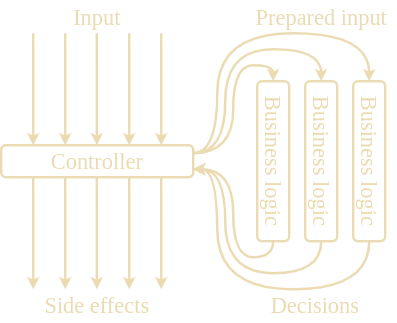
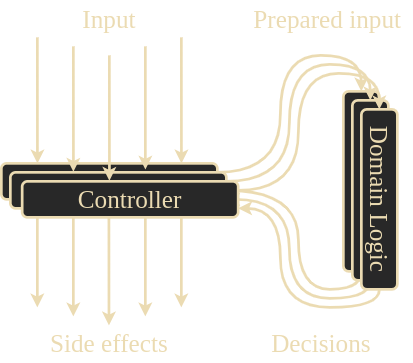
Add more unit testing conetent

Changed region(s): [[0.0, 0.031, 0.9975, 0.9907], [0.1209, 0.8978, 0.4232, 0.9907]]

diff --git a/content/unit-testing/making_tests_work.md b/content/unit-testing/making_tests_work.md
@@ -43,7 +43,8 @@ Always chose to maximize *resistance to refactoring*. Then, test size becomes a 
 ![Test triangle](/images/test_triangle.png)
 
 A diverse ratio of test sizes provides an ideal amount of both *protection against regressions* and 
-*fast feedback*. As a general rule of thumb, prefer a 7:2:1 ratio of small, medium, and large tests.
+*fast feedback*. For any non-trivial production system, test counts should form a pyramid where the
+test count shrinks as test size grows. 
 
 ![Test pyramid](/images/test_pyramid.png)
 
@@ -215,23 +216,25 @@ class MessageRenderer : public Renderer {
 
 ## Hexagonal Architecture
 
-Hexagonal Architecture, proposed by Alistair Cockburn, breaks applications into two parts:
+Hexagonal Architecture, proposed by Alistair Cockburn, breaks applications into two layers:
 
-- **Business logic** - Algorithms and domain models essential to the business.
-- **Controllers** - All other responsibilities of the application.
+- **Domain layer** - Algorithms and domain models essential to the business.
+- **Controller layer** - All other responsibilities of the application.
 
-Interaction between *business logic* and *controllers* follow three guidelines: 
+Interaction between the Domain layer and the Controller layer follow three guidelines: 
 
-1. Business logic is isolated from controllers.
-1. Business logic may not depend on controllers, but controllers may depend on business logic.
-1. Communication with external applications is handled by controllers, not business logic.
+1. The Domain layer is isolated from the Controller layer.
+1. The Domain layer may not depend on the Controller layer, but the Controller layer may 
+   depend on the Domain layer.
+1. Communication with external applications is handled by the Controller layer, not the 
+   Domain layer.
 
-![hexagonal architecture](/images/hexagonal_architecture.png)
+![Hexagonal Architecture](/images/hexagonal_architecture.png)
 
 {{% notice tip %}}
-Business logic has high cyclomatic complexity and domain significance; controllers have a large 
-number of collaborators. Code that is both complex and involves many collaborators is 
-overcomplicated and what hexagonal architecture aims to dissolve. 
+The Domain layer has high cyclomatic complexity and domain significance, while the Controller layer 
+has a large number of collaborators. Code that is both complex and involves many collaborators is 
+overcomplicated and what Hexagonal Architecture aims to dissolve. 
 {{% /notice %}}
 
 
@@ -248,14 +251,14 @@ details too, and should not be mocked either.
 
 ## Functional Architecture
 
-Functional architecture builds off of hexagonal architecture with an added guideline that business 
+Functional architecture builds off of Hexagonal Architecture with an added guideline that business 
 logic is written in a functional paradigm. The architecture generally flows in a three step process:
 
-1. Application services gather and prepare input.
-1. Business logic makes decisions based on prepared input.
-1. Application services converts decisions into side effects.
+1. The Controller layer gathers and prepare input.
+1. The Domain layer makes decisions based on prepared input.
+1. The Controller layer converts decisions into side effects.
 
-![functional architecture](/images/functional_architecture.png)
+![Functional Architecture](/images/functional_architecture.png)
 
 > Object-oriented programming makes code understandable by encapsulating moving parts. Functional
 > programming makes code understandable by minimizing moving parts. *--Michael Feathers*
@@ -269,17 +272,17 @@ Functional architecture assumes a clearcut pipeline of inputs, decisions, and si
 production applications are rarely that simple. What if those decisions lead to gathering more input 
 and making more decisions? There are three strategies to consider:
 
-1. *Eagerly gather all the input* - Preserve controller simplicity and isolated business logic, 
+1. *Eagerly gather all the input* - Preserve controller simplicity and isolated domain logic, 
    but concede performance.
-1. *Inject dependencies into business logic* - Preserve controller simplicity and performance, but
-   concede isolated business logic.
-1. *Allow controller orchestration* - Preserve isolated business logic and performance, but concede 
+1. *Inject dependencies into the Domain layer* - Preserve controller simplicity and performance, but
+   concede isolated domain logic.
+1. *Allow controller orchestration* - Preserve isolated domain logic and performance, but concede 
    controller simplicity.
 
-Isolated business logic is an attribute that should always be maximized because it has a huge impact 
+Isolated domain logic is an attribute that should always be maximized because it has a huge impact 
 on *maintainability* and *resistance to refactoring*. In cases where performance is not critical, 
-feel free to stick to a functional architecture. Otherwise, controllers will need to orchestrate 
-gathering input as a side effect of business logic decisions.
+feel free to stick to a Functional Architecture. Otherwise, controllers will need to orchestrate 
+gathering input as a side effect of decisions from the Domain layer.
 
 {{% notice tip %}}
 Controller orchestration will make controllers more complex, but complexity can be mitigated with 

diff --git a/content/unit-testing/integration_testing.md b/content/unit-testing/integration_testing.md
@@ -2,3 +2,78 @@
 title: "Integration Testing"
 weight: 3
 ---
+
+## Role of Integration Tests 
+
+While unit tests are great for testing domain logic, integration tests are great for testing 
+controllers.
+
+Integration tests are used to verify:
+
+- Interactions with out-of-process dependencies.
+- Edge cases unsuitable for a unit tests.
+
+Each integration test should choose a happy path route that tests the most out-of-process 
+dependencies while still testing a single use case. If a single integration test won't do, write
+more until all out-of-process dependencies are covered.
+
+{{% notice tip %}}
+To keep maintenance costs low, check as many edge cases as possible with unit tests before resorting 
+to an integration test.
+{{% /notice %}}
+
+{{% notice tip %}}
+Edge cases that immediately stop the current operation without changing state adhere to the 
+*Fail Fast principle* and can save you an integration test. 
+{{% /notice %}}
+
+### Mocking
+
+Mocking works the same in integration tests as the do in unit tests:
+- Private out-of-process dependencies are implementation details and should not be mocked. 
+- Shared out-of-process dependencies should be mocked.
+- Relational databases are more granular: private tables don't need to be mocked; shared tables do.
+
+{{% notice note %}}
+When the real version of a managed dependency is too difficult to setup or prohibitive, don't mock 
+it. It the dependency cannot be tested as-is, don't write an integration test at all.
+{{% /notice %}}
+
+### Interfaces
+
+Genuine abstractions are *discovered*, not *invented*. For an interface to be genuine, it must have 
+at least two abstractions. Otherwise, the cost to the reader and the writer isn't worth it.
+
+Interfaces enable mocking. Write an interface to mock shared out-of-process dependencies. 
+However, private out-of-process dependencies aren't mocked, and by extension, don't benefit from an 
+interface, unless they can be swapped for another implementation.
+
+### Layering
+
+Adding layers of indirection where they are not appropriate makes code hard to reason with. Aim
+to have as few layers as possible. Most applications only need three layers: Domain, Controller, and 
+Infrastructure. The Domain and Controller Laters are already familiar. The Infrastructure Layer
+provides utility and protocol libraries.
+
+![Layering](/images/layering.png)
+
+### Logging
+
+Logging falls under two categories:
+
+- **Support logging** - messages are intended to be consumed by support staff and system admins; 
+  observable behavior.
+- **Diagnostic logging** - messages are intended to be consumed by developers; implementation 
+  detail.
+
+Since *Support* logging is observable behavior, it is worth the testing effort. *Diagnostic* 
+logging, however, is an implementation detail and isn't worth testing.
+
+{{% notice note %}}
+The Domain layer should not have dependencies and the same is true for loggers. To log in the 
+Domain layer, either the Controller layer injects a logger, or the Domain layer emits a log event.
+{{% /notice %}}
+
+Effective logging maximizes the signal to noise ratio. *Support* logging cannot be controlled 
+because its a business requirement, but *Diagnostic* logging can. Minimize diagnostic logging
+in the Domain layer, only adding it for debugging and the subsequently removing it once finished.

diff --git a/content/unit-testing/bigger_picture.md b/content/unit-testing/bigger_picture.md
@@ -91,7 +91,7 @@ a patients temperature while focusing on the root cause of the illness.
 A successful test suite has the following properties:
 
 1. Integrated into the development cycle.
-1. Targets only the most important parts of the code base: the business logic.
+1. Targets only the most important parts of the code base: the domain logic.
 1. Provides maximum value with minimum maintenance costs.
 
 Enforcing test quality is a tough problem; one that requires personal judgement.
